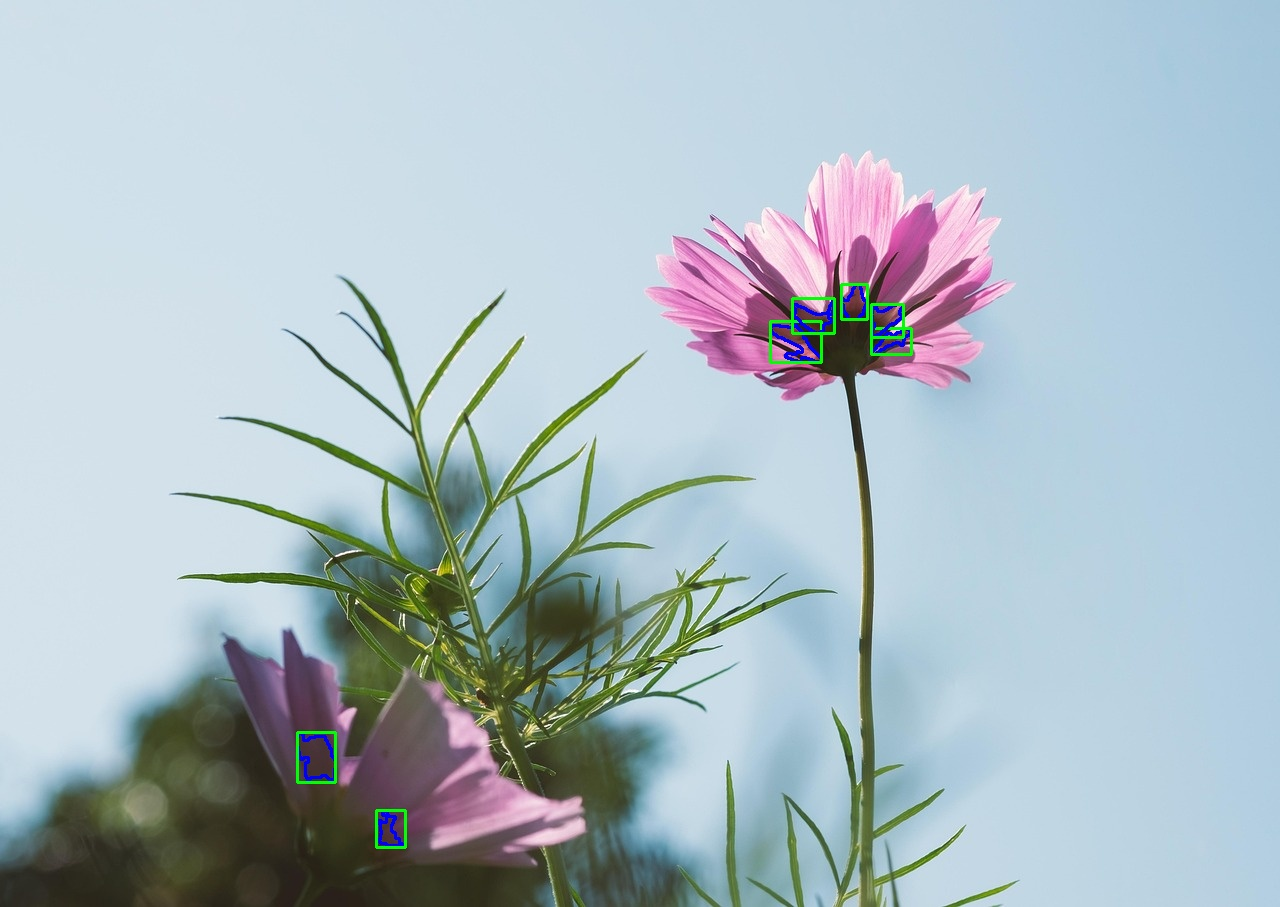
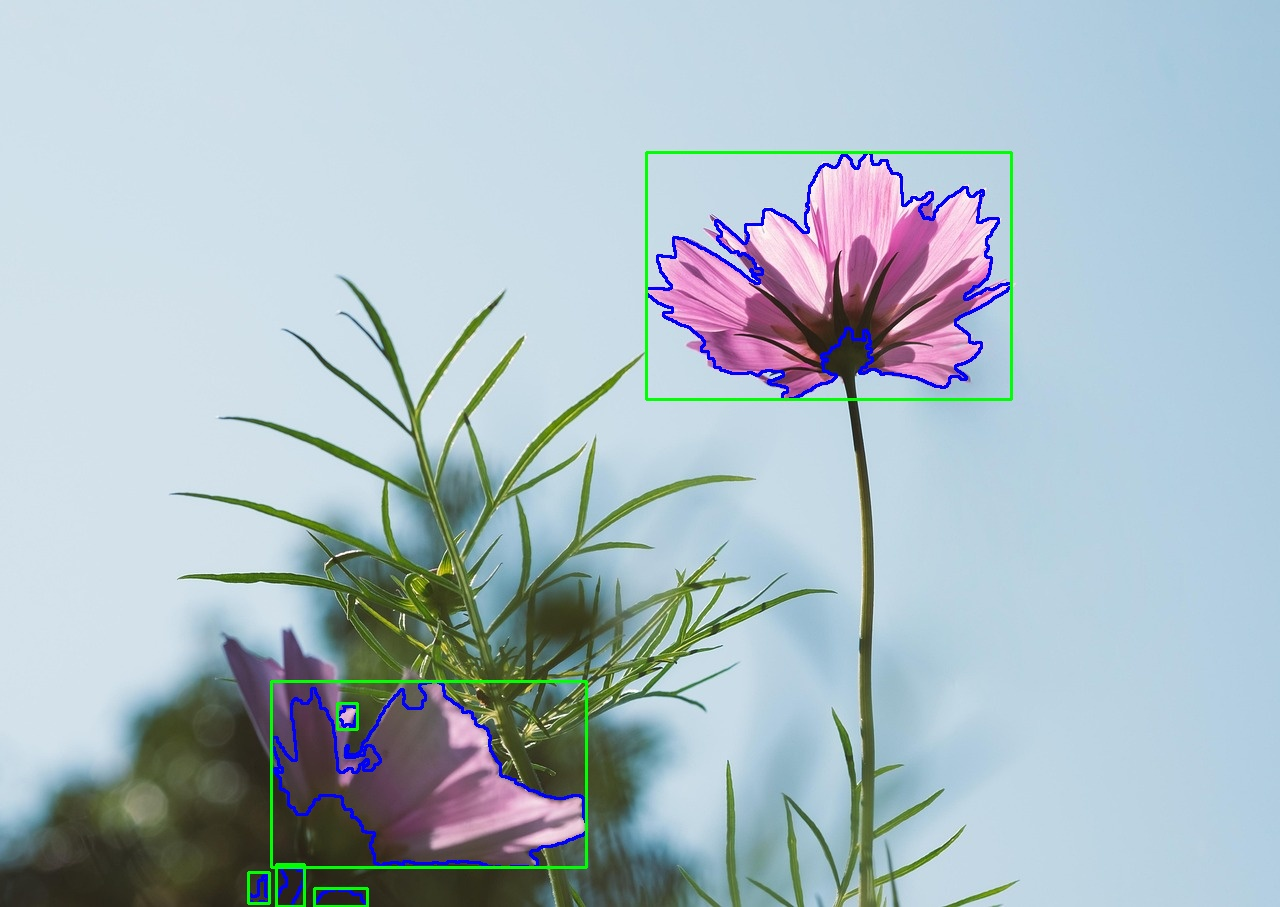
更改红色覆膜的参数

Changed region(s): [[0.5, 0.1544, 0.8125, 0.4631], [0.1875, 0.7409, 0.4688, 1.0], [0.375, 0.8026, 0.4062, 0.8644]]

diff --git a/src/main.cpp b/src/main.cpp
@@ -27,8 +27,8 @@ int main()
 
     // HSV方法提取红色区域 0/179
     cv::Mat mask1, mask2, red_mask;
-    cv::inRange(hsv, cv::Scalar(0, 70, 50), cv::Scalar(10, 255, 255), mask1);
-    cv::inRange(hsv, cv::Scalar(170, 70, 50), cv::Scalar(180, 255, 255), mask2);
+    cv::inRange(hsv, cv::Scalar(0, 0, 0), cv::Scalar(20, 255, 255), mask1);
+    cv::inRange(hsv, cv::Scalar(157, 0, 0), cv::Scalar(180, 255, 255), mask2);
     cv::bitwise_or(mask1, mask2, red_mask); 
 
     
